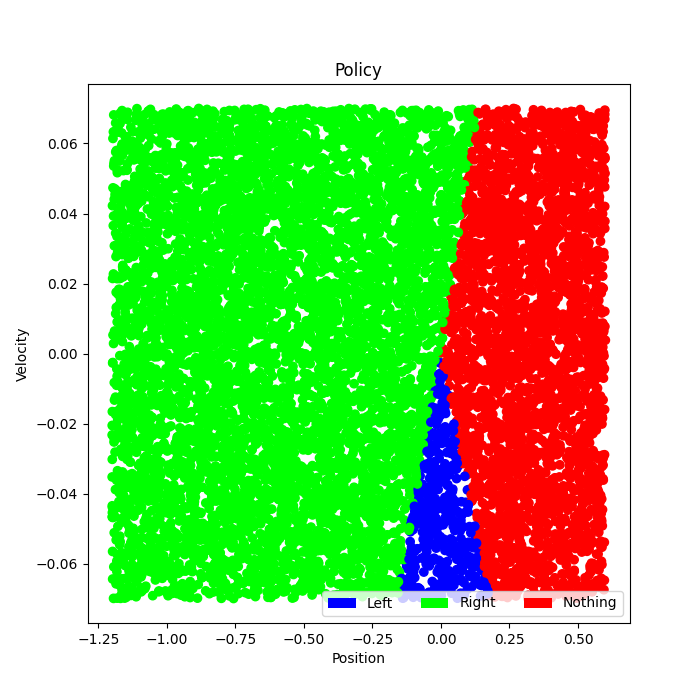
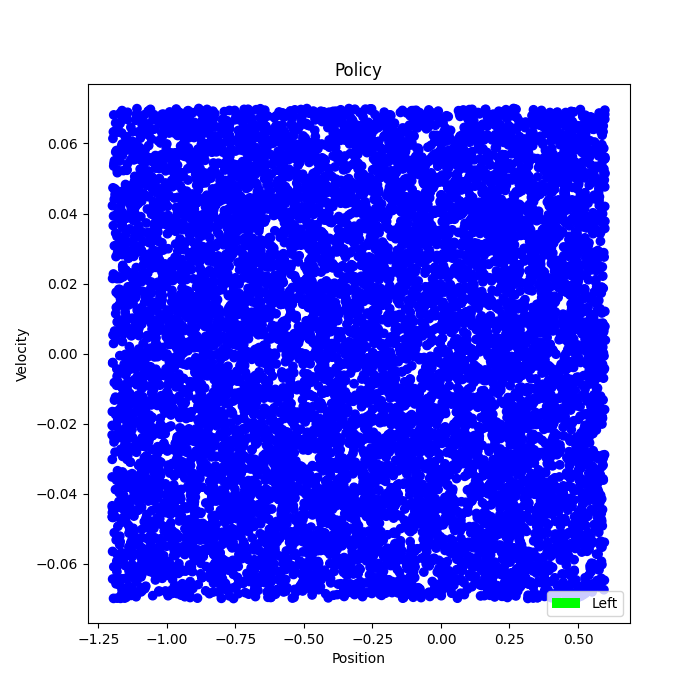
- updated error

diff --git a/dqn_with_memory.py b/dqn_with_memory.py
@@ -23,7 +23,7 @@ def tuple_to_torch(tuple, requires_grad=False):
 
 
 env = gym.make('MountainCar-v0')
-run_tag = "reimplemented_01"
+run_tag = "reimplemented_02_new_error"
 env.seed(1); torch.manual_seed(1); np.random.seed(1)
 PATH = "tboardlogs/"#glob.glob(os.path.expanduser('~/tboardlogs/'))[0]
 writer = SummaryWriter('tboardlogs/{}_{}'.format(datetime.now().strftime('%b%d_%H-%M-%S'), run_tag))
@@ -33,17 +33,17 @@ policy = DeterministicModel(
     in_features=env.observation_space.shape[0],
     num_actions=env.action_space.n,
 )
-learning_rate = 0.01        # optimizer lr
+learning_rate = 0.001        # optimizer lr
 num_epochs = 1000           # total iterations
 epsilon = 0.5               # epsilon greedy param
 batch_size = 2              # number of rollouts
 train_batch_size = 800      # number of states used for batch update of policy
 gamma = 0.99                # discount factor
 loss_fn = nn.MSELoss()
-optimizer = optim.SGD(policy.parameters(), lr=learning_rate)
+optimizer = optim.Adam(policy.parameters(), lr=learning_rate)
 # scheduler = optim.lr_scheduler.StepLR(optimizer, step_size=1, gamma=0.9)
 sampler = Sampler(env=env)
-optimizer_steps = 5
+optimizer_steps = 1
 memory = Memory(max_size=1600)
 
 for episode in trange(num_epochs):
@@ -76,21 +76,22 @@ for episode in trange(num_epochs):
     actions = tuple_to_torch(batch.action)
     next_states = tuple_to_torch(batch.next_state)
     rewards = tuple_to_torch(batch.reward)
+    dones = tuple_to_torch(batch.done)
+
+    # define target
+    q1 = policy(Variable(next_states))
+    q1_max, _ = torch.max(q1, -1)
+    q_target = rewards + gamma * q1_max.detach() * (1-dones)
 
     for it in range(optimizer_steps):
-        # define target
-        q = policy(Variable(states))
-        q_target = q.clone().data
-        q1 = policy(Variable(next_states))
-        q1_max, _ = torch.max(q1, -1)
-        for i in range(min(train_batch_size, len(q_target))):
-            q_target[i, int(actions[i])] = rewards[i] + torch.mul(q1_max[i].detach(), gamma)
+        optimizer.zero_grad()
+
 
         # compute loss; fit network
-        loss = loss_fn(q, q_target)
+        q_policy = policy(Variable(states)).gather(1, actions.unsqueeze(1).type(torch.int64)).squeeze(1)
+        loss = loss_fn(q_policy, q_target)
         writer.add_scalar("data/optimizer_loss", loss, episode * optimizer_steps + it)
-        policy.zero_grad()
-        q = policy(states)
+
         loss.backward()
         optimizer.step()
 
